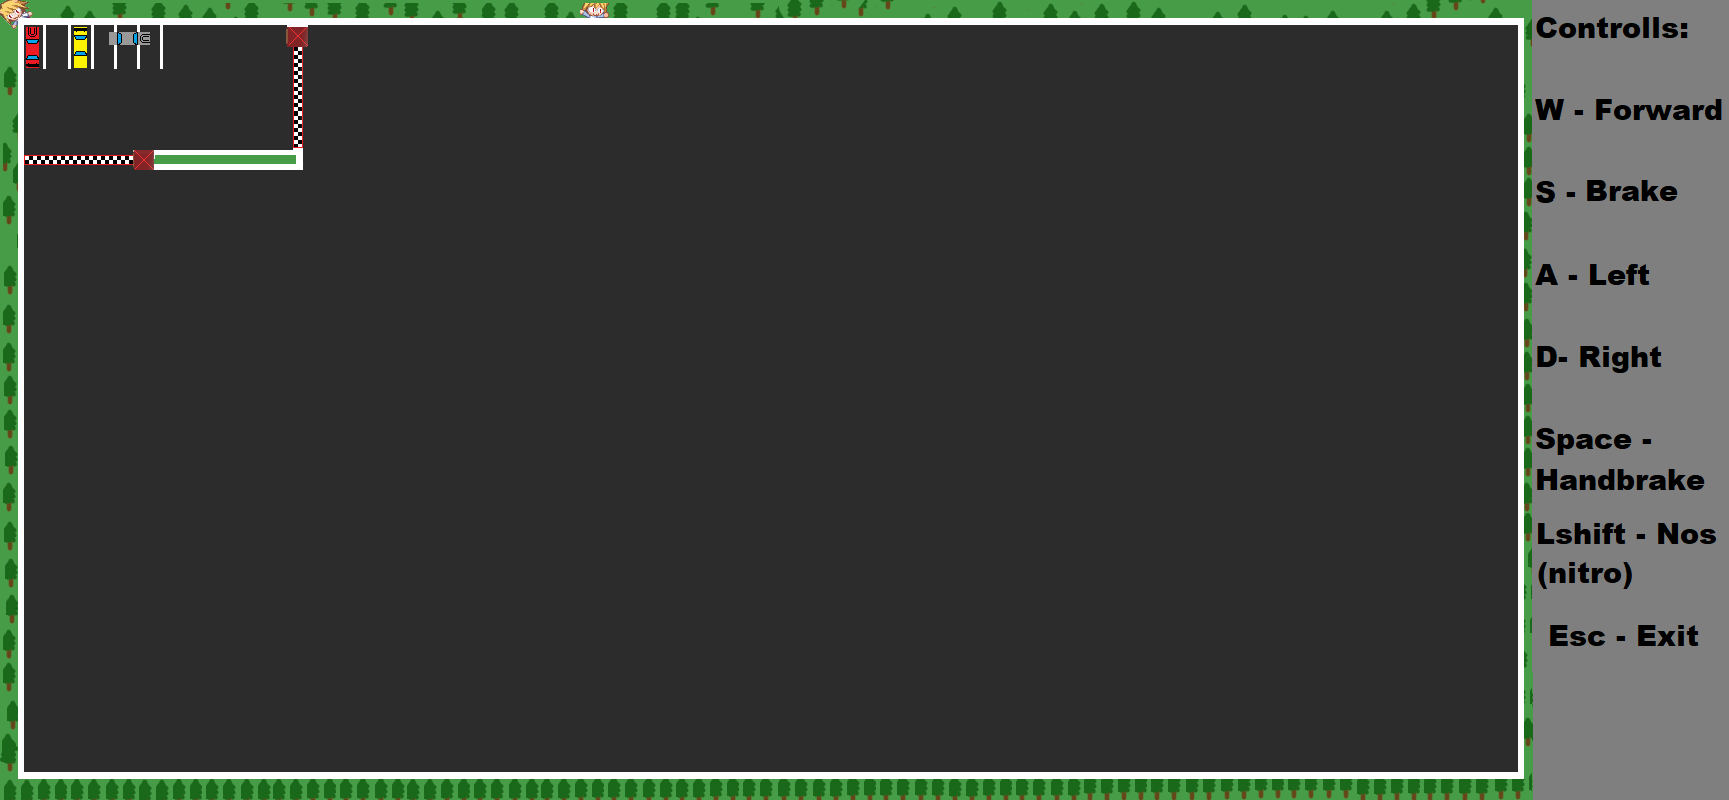
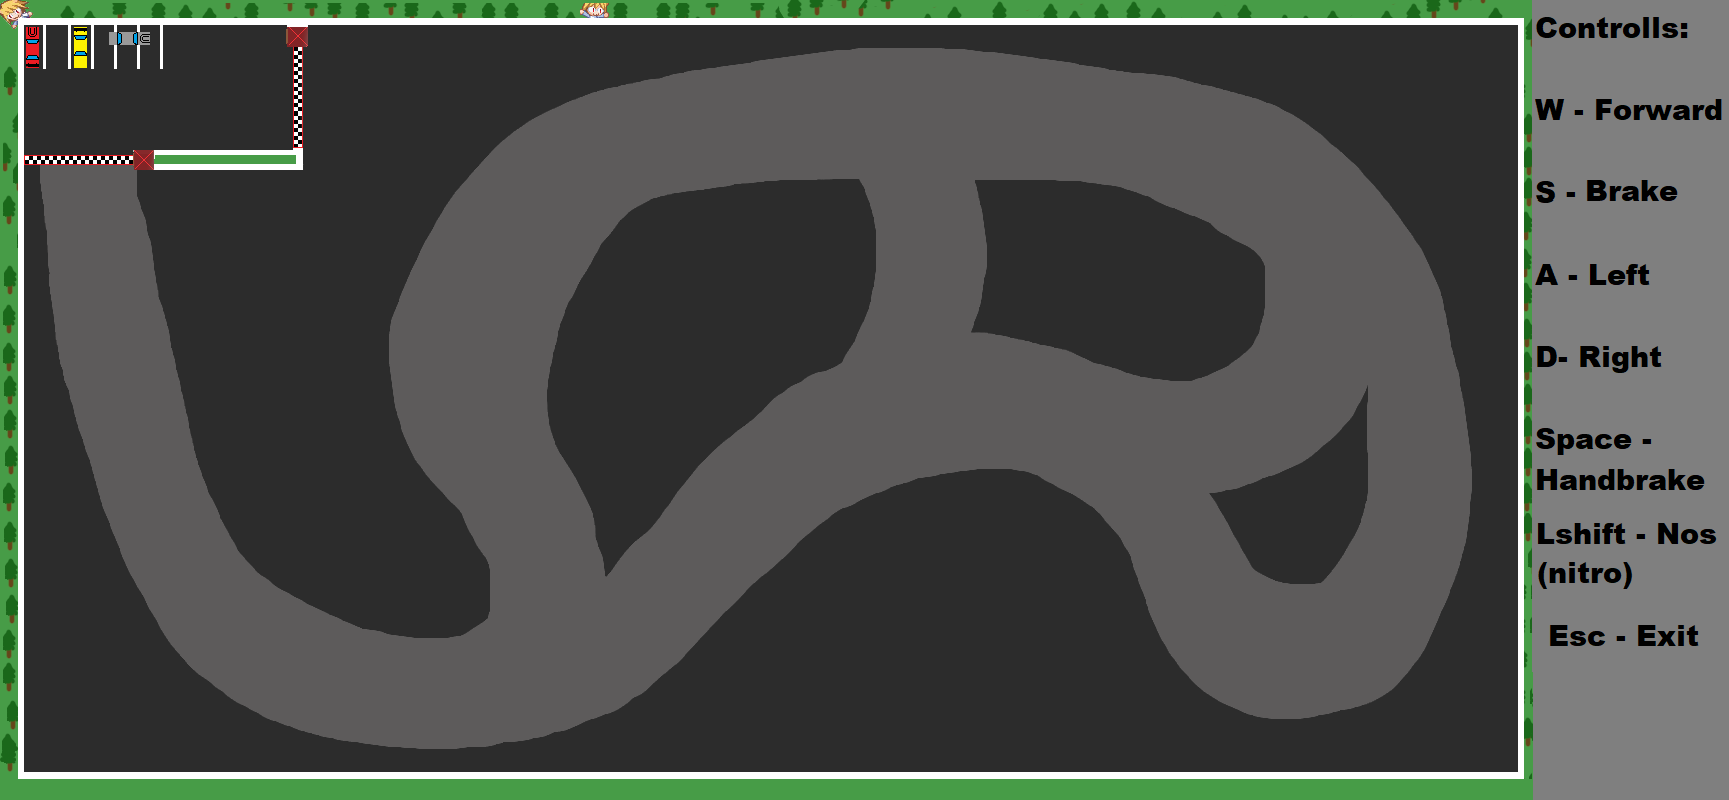
Dráha
přidal jsem dráhu na mapu

diff --git a/SRC/Dorifto.py b/SRC/Dorifto.py
@@ -3,6 +3,7 @@ from datetime import datetime, timedelta
 
 score = 0
 score_increment = 1
+score_increment_fast = 2
 
 pygame.init()
 
@@ -56,7 +57,7 @@ class Car:
     def check_wall_collision(self, needle):
         collision = False
         if self.x > 1520:
-            self.speed = 0.5
+            self.speed = 1.5
             if needle.degrees_from_0 < 120:
                 needle.degrees_from_0 += 8
             self.x -= self.speed
@@ -259,7 +260,7 @@ while True:
         rotation_shift = 0
 
     if keys[pygame.K_w]:
-        car.accelerate(needle)
+        car.speed = 4
     else:
         car.drop_speed(needle)
 
@@ -267,7 +268,7 @@ while True:
         car.brake()
     if keys[pygame.K_w] and keys[pygame.K_LSHIFT]:
         car.speed = 8.25
-
+    
     if (keys[pygame.K_SPACE] and keys[pygame.K_a] or keys[pygame.K_d]) or (car.speed > 6 and keys[pygame.K_a] or keys[pygame.K_d]) and not keys[pygame.K_s]:
         if keys[pygame.K_a] and car.drift_distance < 50:
             car.drift_distance += 1
@@ -294,7 +295,15 @@ while True:
     
     if keys[pygame.K_SPACE] and keys[pygame.K_a]:
         score += score_increment
-            
+    
+    if keys[pygame.K_LSHIFT] and keys[pygame.K_SPACE] and keys[pygame.K_a]:
+        score + score_increment_fast
+    
+    if keys[pygame.K_LSHIFT] and keys[pygame.K_SPACE] and keys[pygame.K_d]:
+        score + score_increment_fast
+    
+    
+    
     if int(car.speed*10) % 2 == 0:
         speed_text.text = f"{int(car.speed*10)}"
 
@@ -312,8 +321,7 @@ while True:
     screen.blit(bg_image, bg_rect)
     car.display(screen)
     screen.blit(score_text,(1590,700))
-    gaymouvr == screen.blit(
-   
+              
     if score >= 69:
         screen.blit(ach1,(20,780))
     if score >= 1000:
